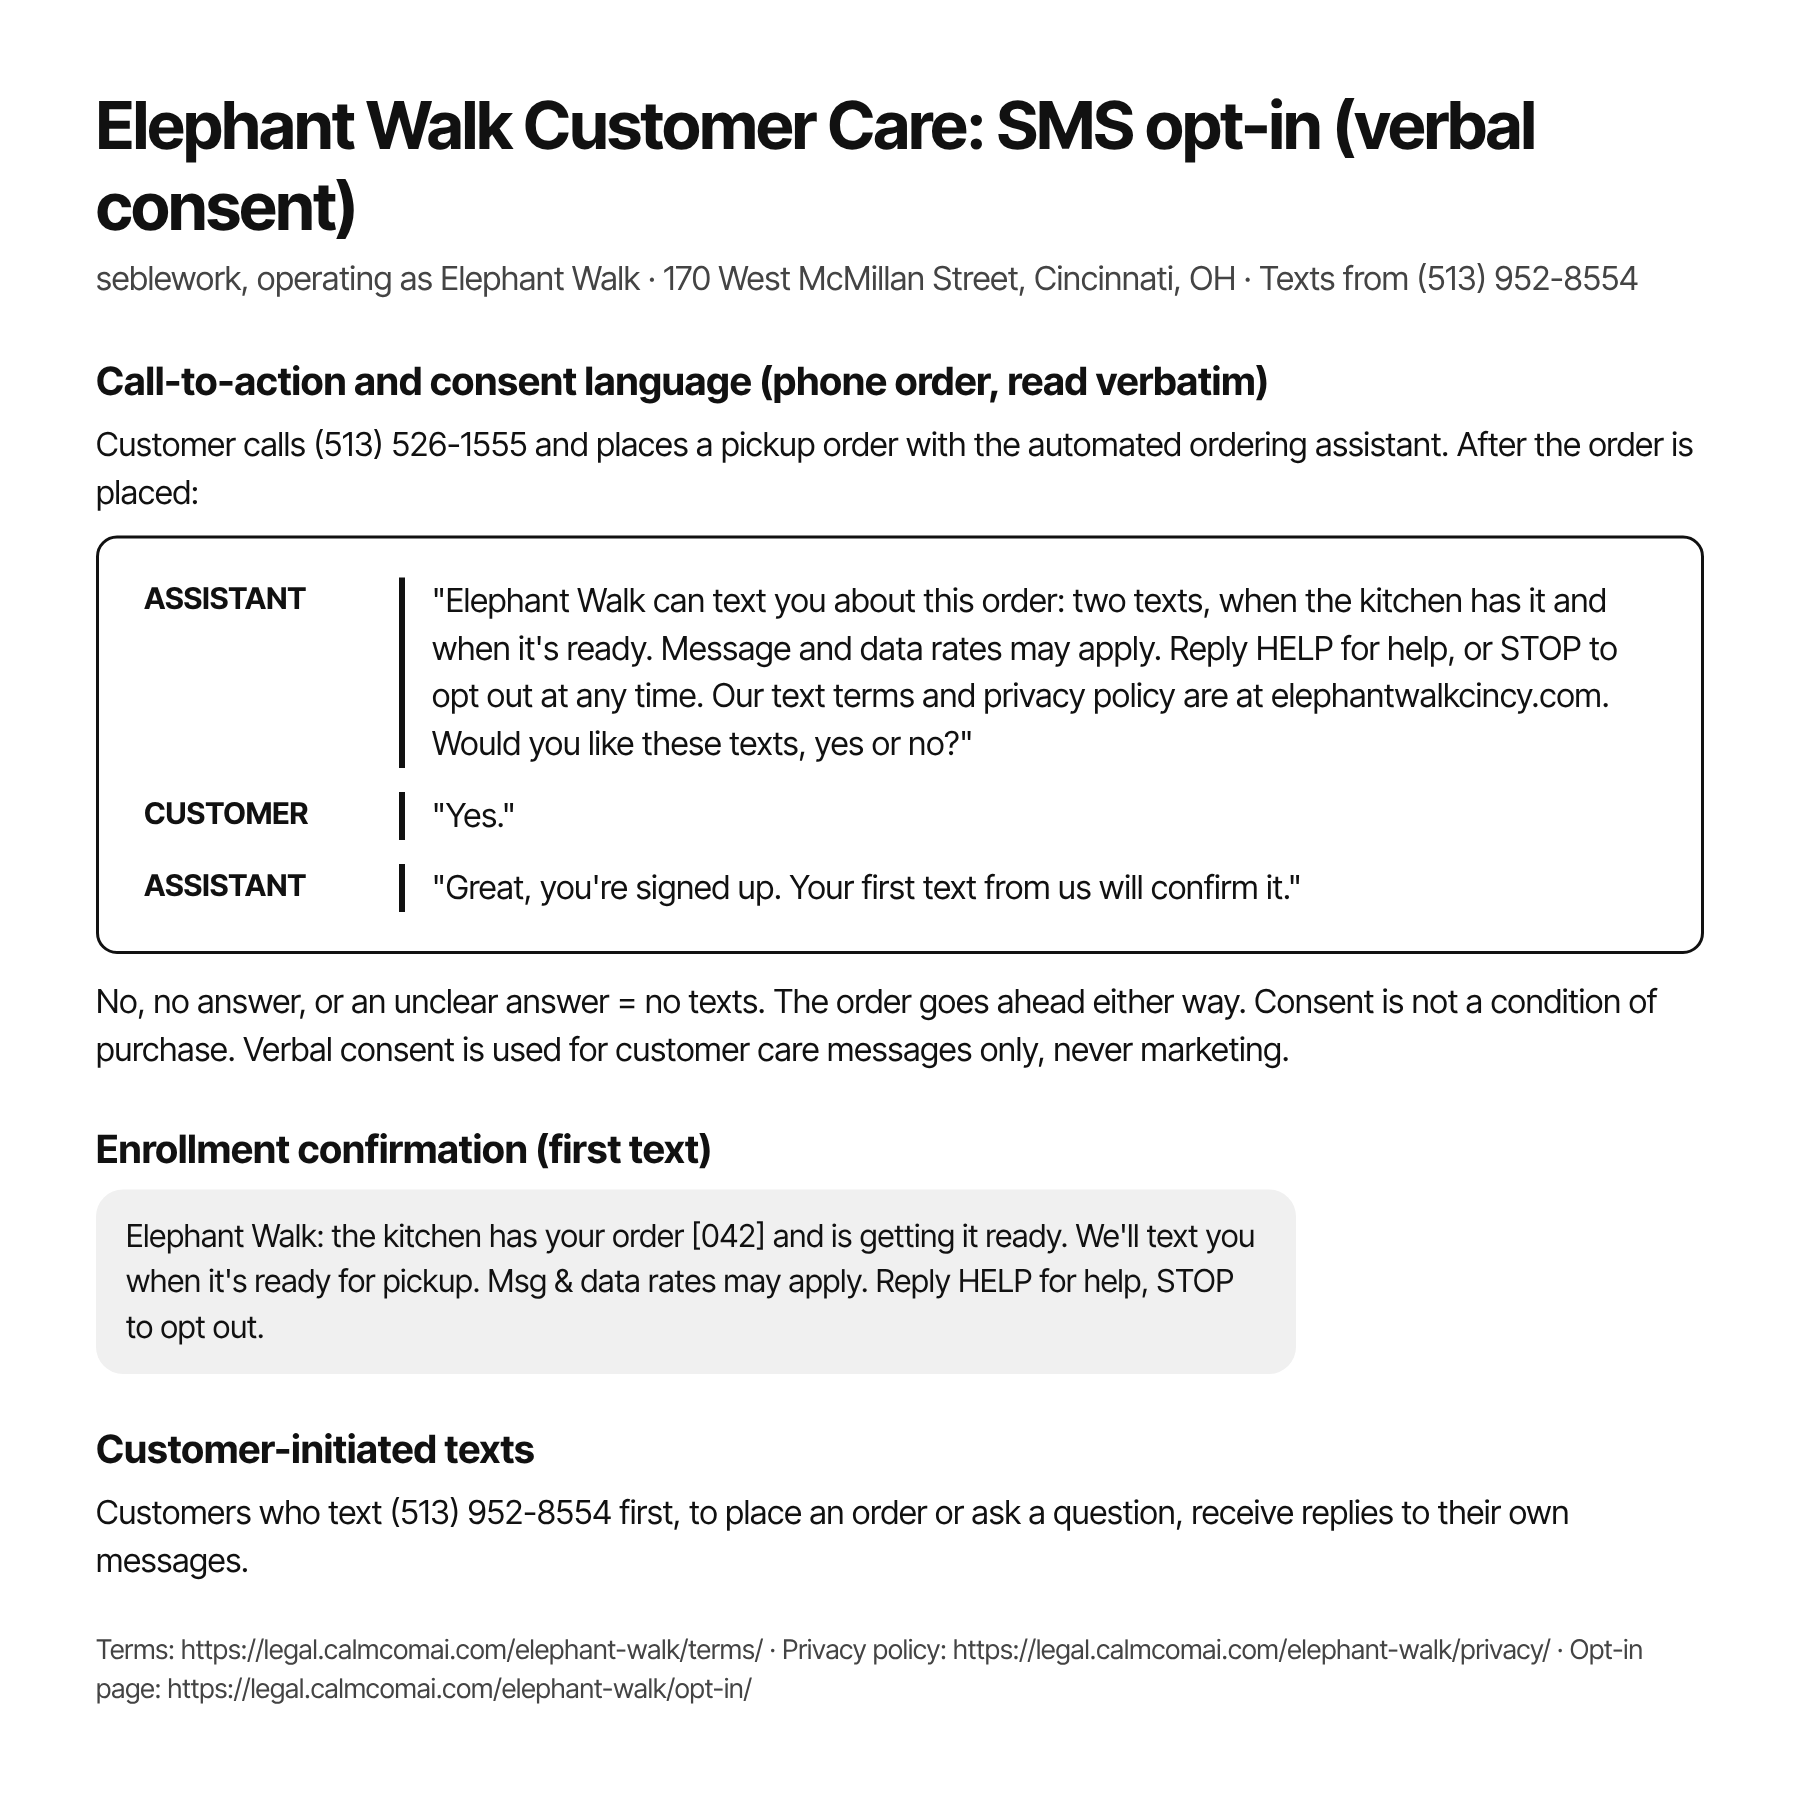
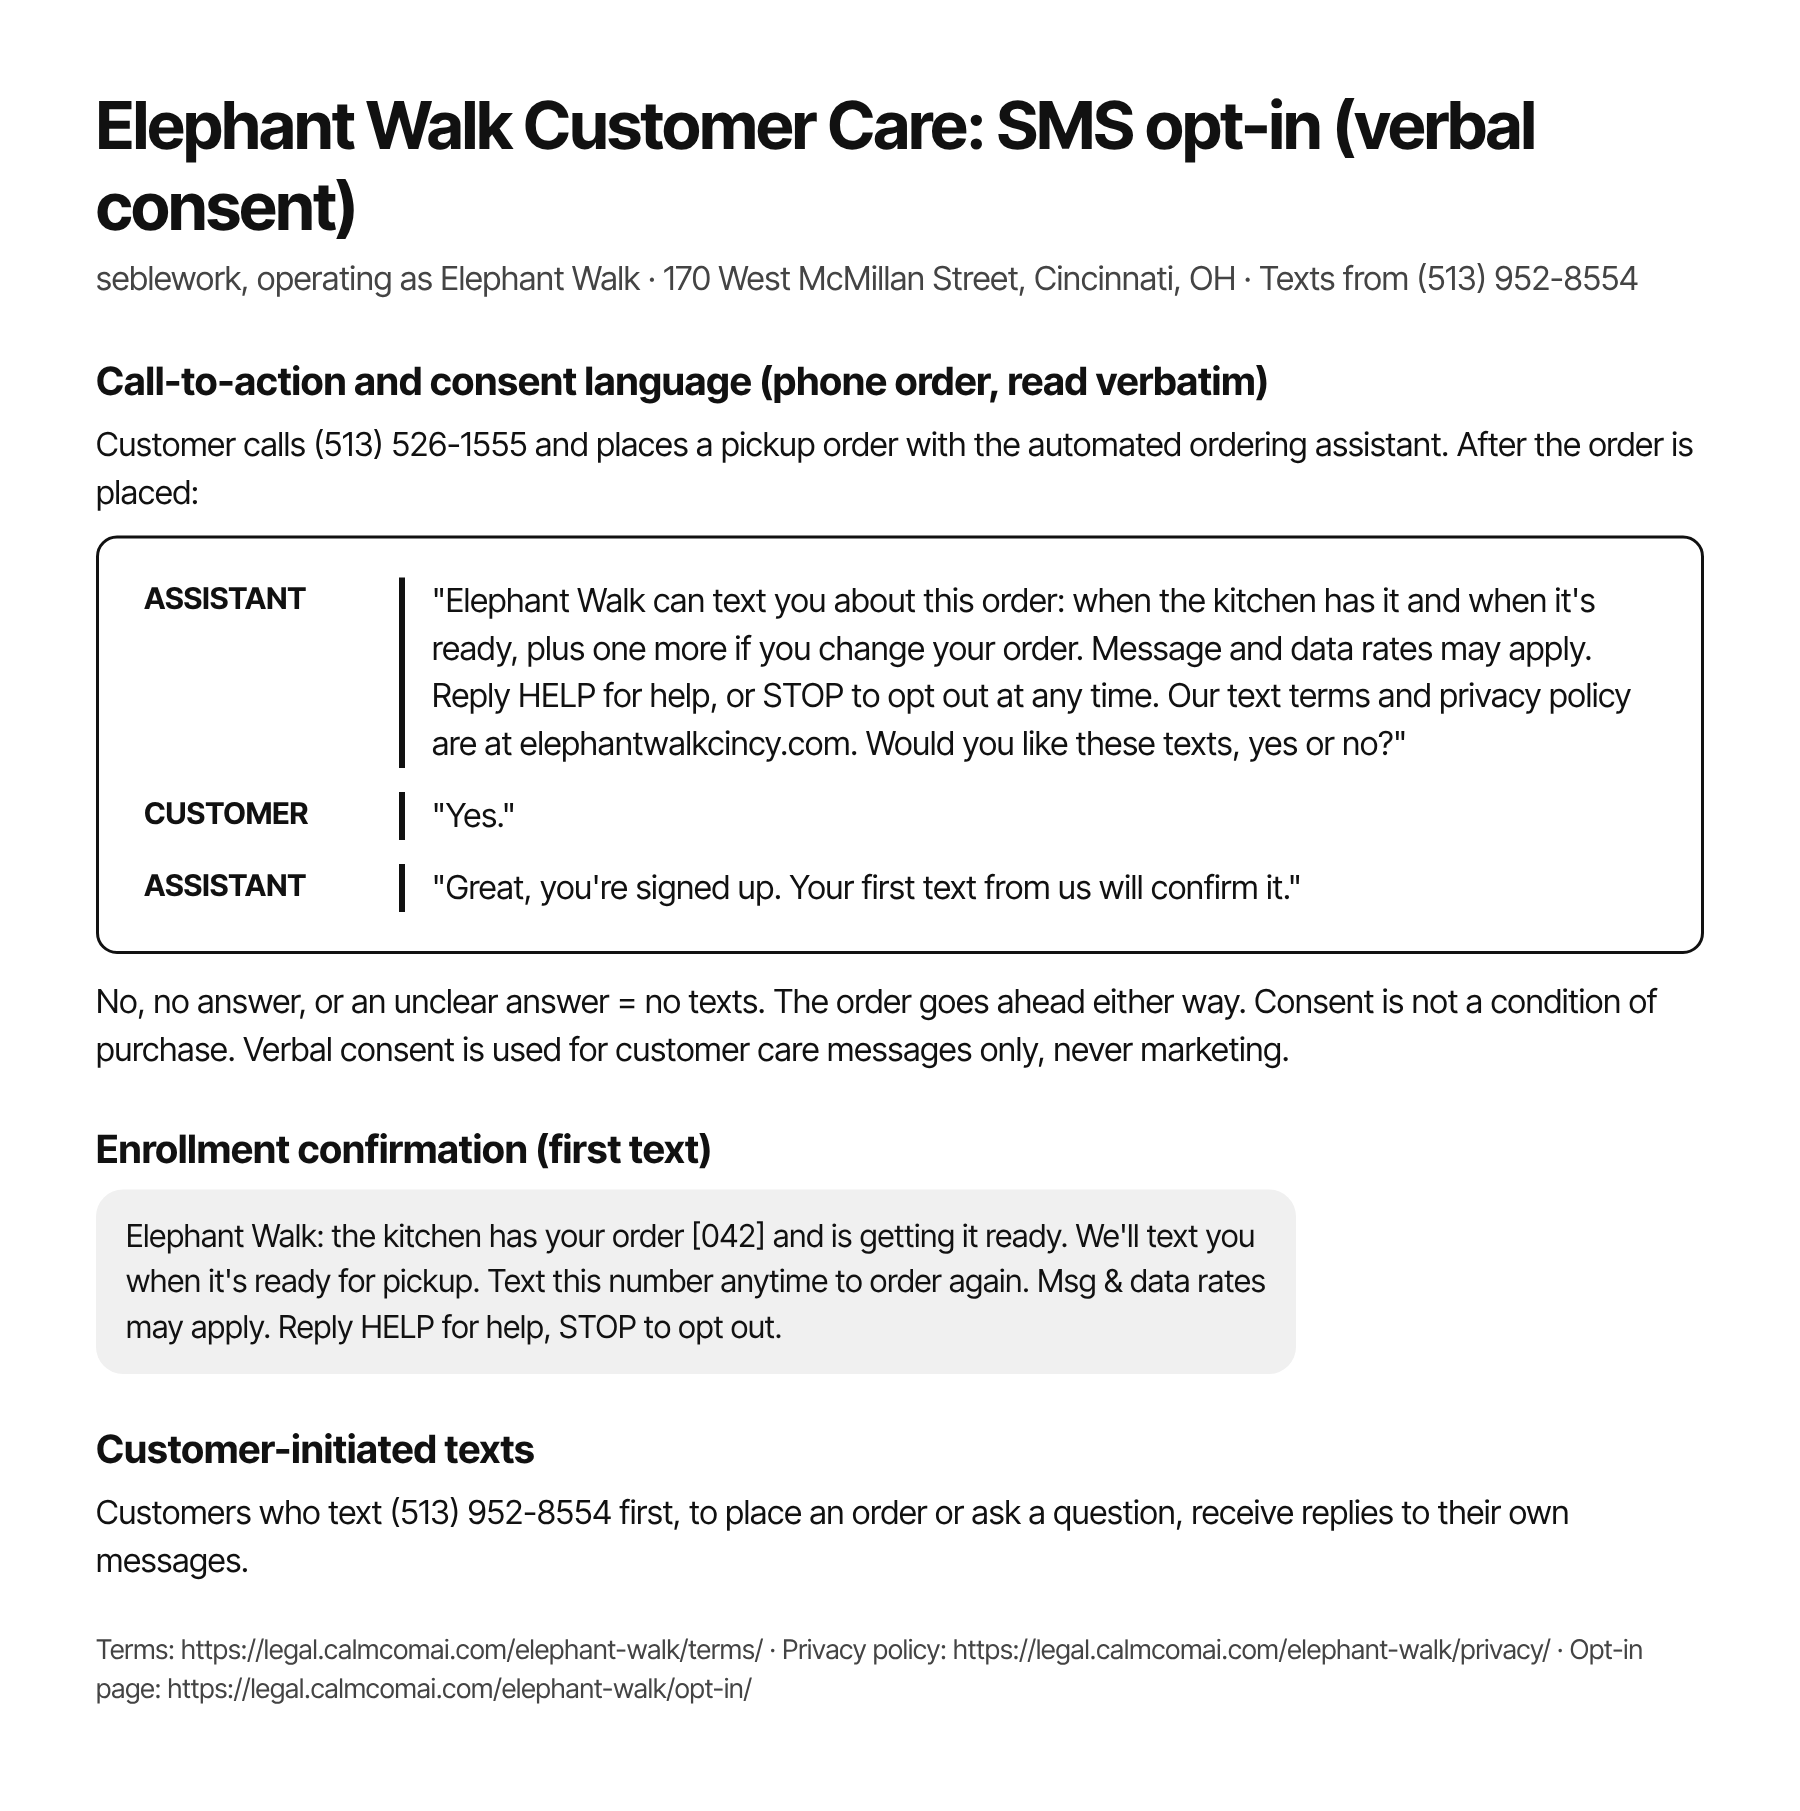
Mirror: consent script and frequency say 'plus one more if you change your order' (matches elephantwalkcincy.com)
Claude-Session: https://claude.ai/code/session_01Vr1p1KvyBxjFoXWngdmMev

Changed region(s): [[0.2489, 0.3092, 0.9022, 0.4329], [0.0622, 0.6803, 0.6844, 0.7421]]

diff --git a/elephant-walk/opt-in/index.html b/elephant-walk/opt-in/index.html
@@ -23,7 +23,7 @@
   <div class="wrap">
     <h1>How you sign up for texts</h1>
     <p class="lede">Elephant Walk Customer Care texts only go to customers who say yes on a phone order, or who text us first.</p>
-    <p class="updated">Elephant Walk Customer Care. Last updated November 4, 2026.</p>
+    <p class="updated">Elephant Walk Customer Care. Last updated November 6, 2026.</p>
   </div>
 </div>
 
@@ -34,7 +34,7 @@
       <h2>On a phone order</h2>
       <p>You call Elephant Walk at (513) 526-1555 and place a pickup order with our automated ordering assistant. After your order is placed, the assistant asks:</p>
       <div class="promise">
-        <p>“Elephant Walk can text you about this order: two texts, when the kitchen has it and when it's ready. Message and data rates may apply. Reply HELP for help, or STOP to opt out at any time. Our text terms and privacy policy are at elephantwalkcincy.com. Would you like these texts, yes or no?”</p>
+        <p>“Elephant Walk can text you about this order: when the kitchen has it and when it's ready, plus one more if you change your order. Message and data rates may apply. Reply HELP for help, or STOP to opt out at any time. Our text terms and privacy policy are at elephantwalkcincy.com. Would you like these texts, yes or no?”</p>
         <p><strong>You:</strong> “Yes.”</p>
         <p><strong>Assistant:</strong> “Great, you're signed up. Your first text from us will confirm it.”</p>
       </div>
@@ -54,7 +54,7 @@
       <h2>Your first text from us</h2>
       <div class="thread" aria-label="Example of the first text you would receive">
         <p class="from">Texts come from (513) 952-8554</p>
-        <p class="bubble">Elephant Walk: the kitchen has your order 042 and is getting it ready. We'll text you when it's ready for pickup. Msg &amp; data rates may apply. Reply HELP for help, STOP to opt out.</p>
+        <p class="bubble">Elephant Walk: the kitchen has your order 042 and is getting it ready. We'll text you when it's ready for pickup. Text this number anytime to order again. Msg &amp; data rates may apply. Reply HELP for help, STOP to opt out.</p>
         <p class="note">Example. Your order number will be different.</p>
       </div>
     </section>

diff --git a/elephant-walk/terms/index.html b/elephant-walk/terms/index.html
@@ -23,7 +23,7 @@
   <div class="wrap">
     <h1>Text message terms</h1>
     <p class="lede">Elephant Walk Customer Care keeps you posted by text: when the kitchen has your pickup order, when it's ready, and when you text us a question. Here's exactly how that works.</p>
-    <p class="updated">Elephant Walk Customer Care. Last updated November 4, 2026.</p>
+    <p class="updated">Elephant Walk Customer Care. Last updated November 6, 2026.</p>
 
     <div class="thread" aria-label="Example of the texts you would receive">
       <p class="from">Texts come from (513) 952-8554</p>
@@ -41,7 +41,7 @@
       <h2>What texts will I get?</h2>
       <p>Customer care texts about ordering from us:</p>
       <ul>
-        <li>Updates on a pickup order you placed: when the kitchen has it and when it's ready. If you change your order by text, we'll confirm the change.</li>
+        <li>Updates on a pickup order you placed: when the kitchen has it and when it's ready, plus one more if you change your order.</li>
         <li>Replies when you text us about your order or about ordering.</li>
       </ul>
       <p>No ads, offers or promotions.</p>
@@ -58,7 +58,7 @@
 
     <section>
       <h2>How often, and what does it cost?</h2>
-      <p>Two texts per order, plus our replies when you text us, so message frequency varies. Message and data rates may apply, depending on your mobile plan.</p>
+      <p>Two texts per order (three if you change your order), plus our replies when you text us, so message frequency varies. Message and data rates may apply, depending on your mobile plan.</p>
     </section>
 
     <section>

diff --git a/elephant-walk/privacy/index.html b/elephant-walk/privacy/index.html
@@ -23,7 +23,7 @@
   <div class="wrap">
     <h1>Privacy policy</h1>
     <p class="lede">What we collect when you order from Elephant Walk by phone or text, why we collect it, and the choices you have.</p>
-    <p class="updated">Last updated November 4, 2026.</p>
+    <p class="updated">Last updated November 6, 2026.</p>
   </div>
 </div>
 
@@ -62,7 +62,7 @@
 
     <section>
       <h2>Texts from us</h2>
-      <p>Two texts per order, plus our replies when you text us. Message and data rates may apply. Reply <span class="keyword">STOP</span> to stop, or <span class="keyword">HELP</span> for help. Our <a href="../terms/">text message terms</a> explain how texting works.</p>
+      <p>Two texts per order (three if you change your order), plus our replies when you text us. Message and data rates may apply. Reply <span class="keyword">STOP</span> to stop, or <span class="keyword">HELP</span> for help. Our <a href="../terms/">text message terms</a> explain how texting works.</p>
     </section>
 
     <section>
